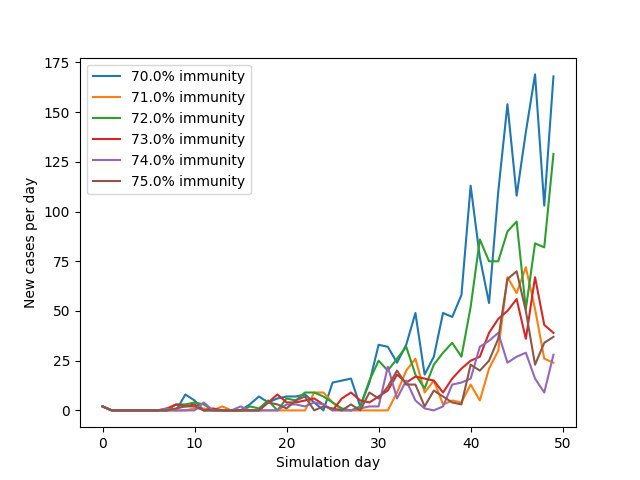
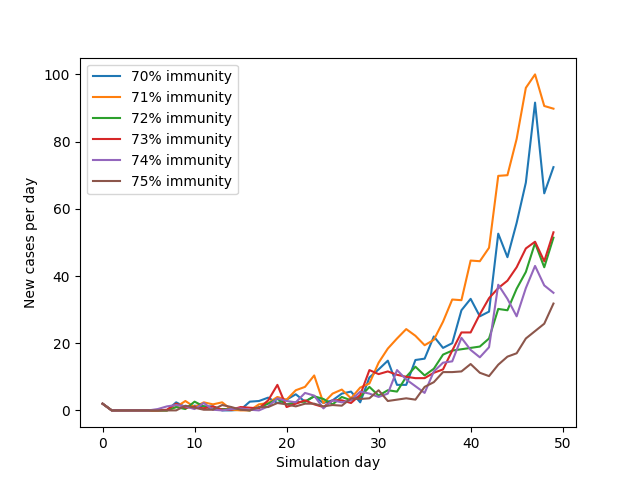
added 1.4 en 2.1

diff --git a/SimulationPaper/simPaper.tex b/SimulationPaper/simPaper.tex
@@ -92,24 +92,113 @@ As a first approximation we performed 10 simulations with immunity levels rangin
 By dropping all percentages lower then 60 and higher then 90\% we get the following graph, this graph is a lot closer to the desired graph (since the highest number of new cases is now only 350 compared to over 6000), but is still far from accurate. We can now see that the desired immunity rate should lie somewhere between 70 and 80\% as 70 is too high and 80 is too low.
 \begin{figure}
 	\includegraphics[width=\textwidth]{test_immunity_70-80.png}
-	\caption{first estimate of outbreaks}
+	\caption{narrowed down estimate of outbreaks}
 \end{figure}
 
 \newpage
 \noindent
-Finally, we zoom in between 70 and 75\% and we can see that the immunity percentage is somewhere around the 72 an 73\% mark. the 73\% evolution approaches the desired graph but then halts at the end of it's domain, the 72\% immunity graph has the same evolution as the desired graph, but is a little bit too high at the end.
+Finally, we zoom in between 70 and 75\% and we can see that the immunity percentage is somewhere around the 70\% mark. Curiously enough, with an immunity rate of 71\% and an average of 5 simulations, there are more infected than with an immunity rate of 70\%. The only problem with this 70 \% graph is that there is a sudden drop in infections around day 45 while the original graph doesn't feature that drop.
 \begin{figure}
 	\includegraphics[width=\textwidth]{test_immunity_70-75.png}
-	\caption{first estimate of outbreaks}
+	\caption{final estimate of outbreaks based on an average of 5 simulations}
 \end{figure}
 \newpage
 
 \subsection{Estimating R\textsubscript{0}}
+Here, we need to approximate the same graph but now he have to use an extra parameter, R\textsubscript{0}, the basic reproduction number of a disease, indicating how many people a single infected person will infect on average.
 
+A first estimate is done with the same immunity rate found in the previous experiment and R0 in all possible values. We should expect that a lower R0 will result in a lower amount of infections. We will then try to replicate the correct immunity rate for each R0 and try to determine which graph fits the best.
+
+\begin{figure}
+	\includegraphics[width=\textwidth]{test_R0_immunity_70.png}
+	\caption{simulations with an immunity rate of 70\%}
+\end{figure}
+
+\newpage
+\noindent
+For R0 = 12, the optimal immunity rate is somewhere around 65\%, this will mean that 65\% immunity rate the lower bound is for all values of R0 if we want to find the same graph.
+\begin{figure}
+	\includegraphics[width=\textwidth]{test_R0_12.png}
+	\caption{simulations with R0=12}
+\end{figure}
+
+\newpage
+\noindent
+For R0 = 13, the estimated immunity rate is around 68\%.
+\begin{figure}
+	\includegraphics[width=\textwidth]{test_R0_13.png}
+	\caption{simulations with R0=13}
+\end{figure}
+
+\newpage
+\noindent
+For R0 = 14, the estimated immunity rate is around 69\%.
+\begin{figure}
+	\includegraphics[width=\textwidth]{test_R0_14.png}
+	\caption{simulations with R0=14}
+\end{figure}
+
+\newpage
+\noindent
+
+For R0 = 15, we already know from the previous section that the estimated immunity rate is 70\%, so we don't need to recompute that one.
+
+For R0 = 16, the best fit seeems to be with an immunity rate of 73\%.
+\begin{figure}
+	\includegraphics[width=\textwidth]{test_R0_16.png}
+	\caption{simulations with R0=16}
+\end{figure}
+
+\newpage
+\noindent
+
+For R0 = 17, it seems to be that an immunity rate of 74\%  gives the best results.
+\begin{figure}
+	\includegraphics[width=\textwidth]{test_R0_17.png}
+	\caption{simulations with R0=17}
+\end{figure}
+
+\newpage
+\noindent
+
+For R0 = 18, it seems to be that an immunity rate of 76\%  gives the best results.
+\begin{figure}
+	\includegraphics[width=\textwidth]{test_R0_18.png}
+	\caption{simulations with R0=18}
+\end{figure}
+
+\newpage
+\noindent
+
+Generally speaking, the immunity rate is dependent of the parameter R0, which is to be expected. However, the parameter R0 doesn't seem to matter that much because the immunity rates are still pretty close to eachother.
+
+\begin{figure}
+	\includegraphics[width=\textwidth]{test_R0_final.png}
+	\caption{5 simulations for found immunity values} 
+\end{figure}
+
+\newpage
+\noindent
 \section{Population generation}
 
 \subsection{Investigating the influence of demography on epidemics}
+We generate populations for two regions with different age distributions. We need to find which region is more likely to have an outbreak, region A, which has more younger people or region B, which has more elderly people. One might assume that the older region will have more chance because of the lower immunity the elderly might have.
 
+In case of population A there is around a 78\% chance for an outbreak to occur, in the simulations with population B there is 80\% chance for an outbreak. Population B is the younger population in respect to population A, this means that an older population does mean an increase in the likelihood of an outbreak, though it isn't an enormous difference. This difference might even be an statistical error.
+
+
+\begin{figure}
+	\includegraphics[width=\textwidth]{outbreaks_populationA.png}
+	\includegraphics[width=\textwidth]{barchart_populationA.png}
+	\caption{Results of 50 simulations with population A}
+\end{figure}
+\begin{figure}
+	\includegraphics[width=\textwidth]{outbreaks_populationB.png}
+	\includegraphics[width=\textwidth]{barchart_populationB.png}
+	\caption{Results of 50 simulations with population B}
+\end{figure}
+\newpage
+\noindent
 \subsection{Vaccinating on campus}
 \newpage
 
